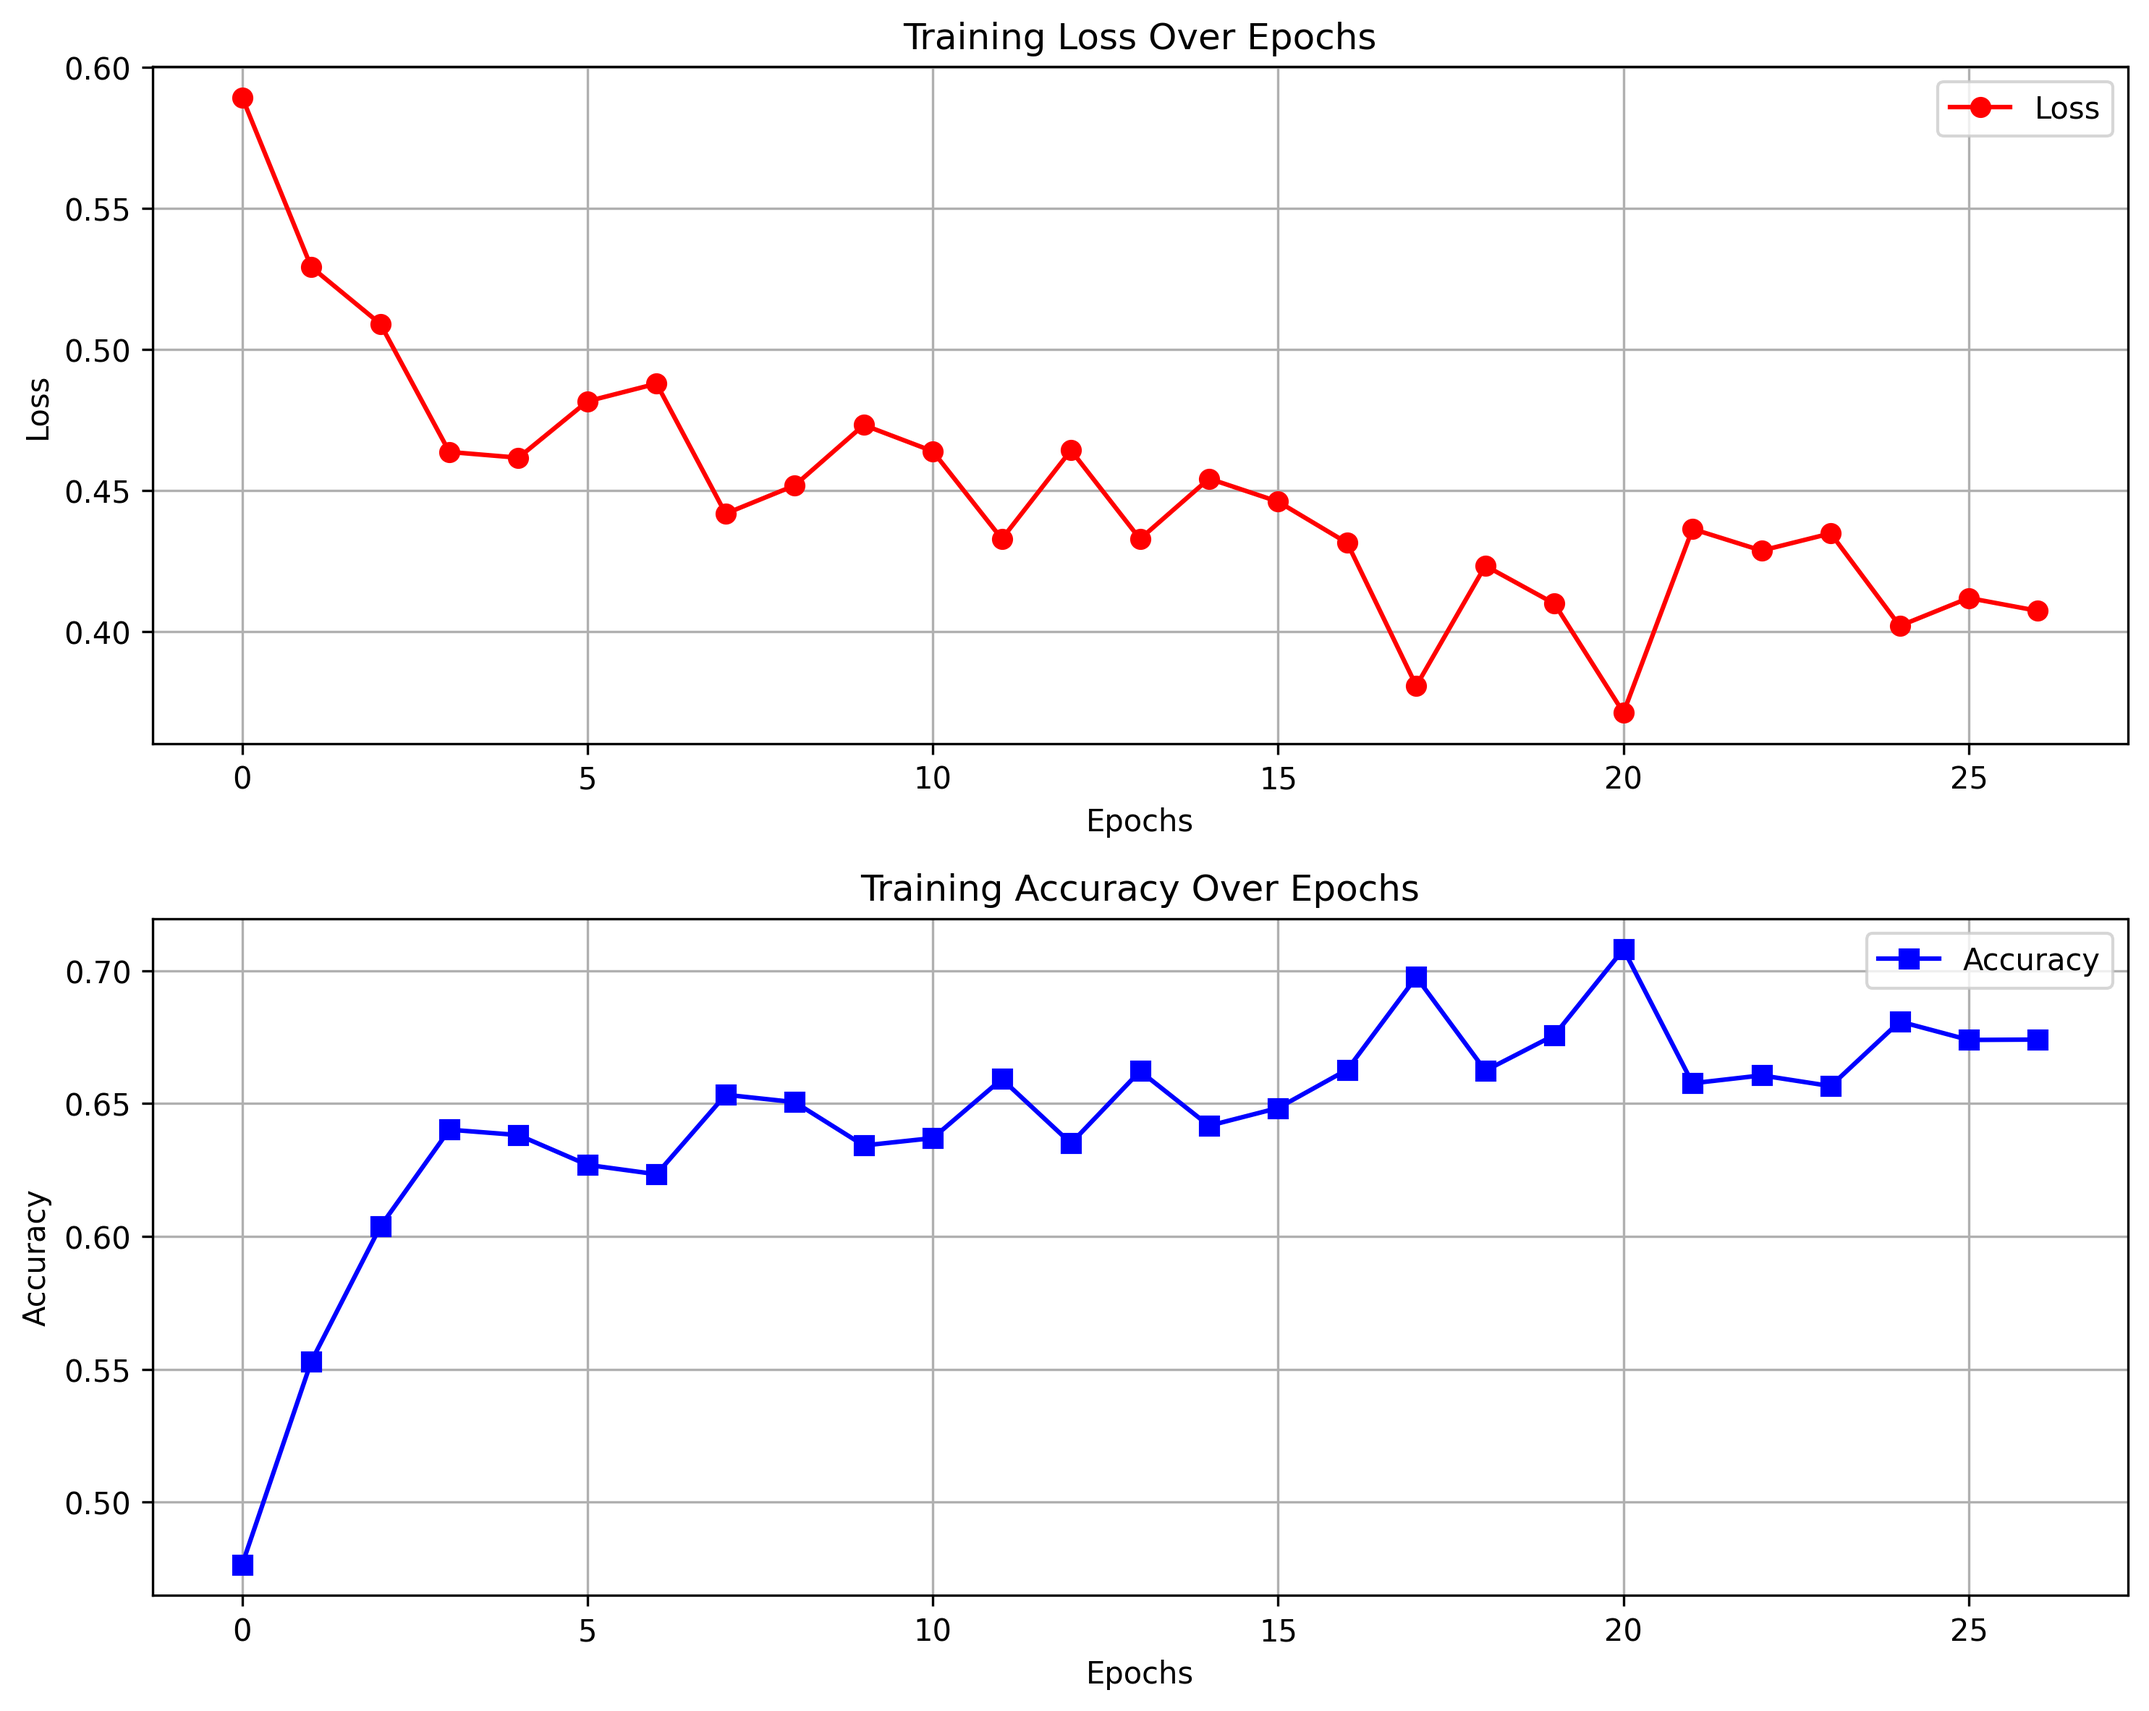
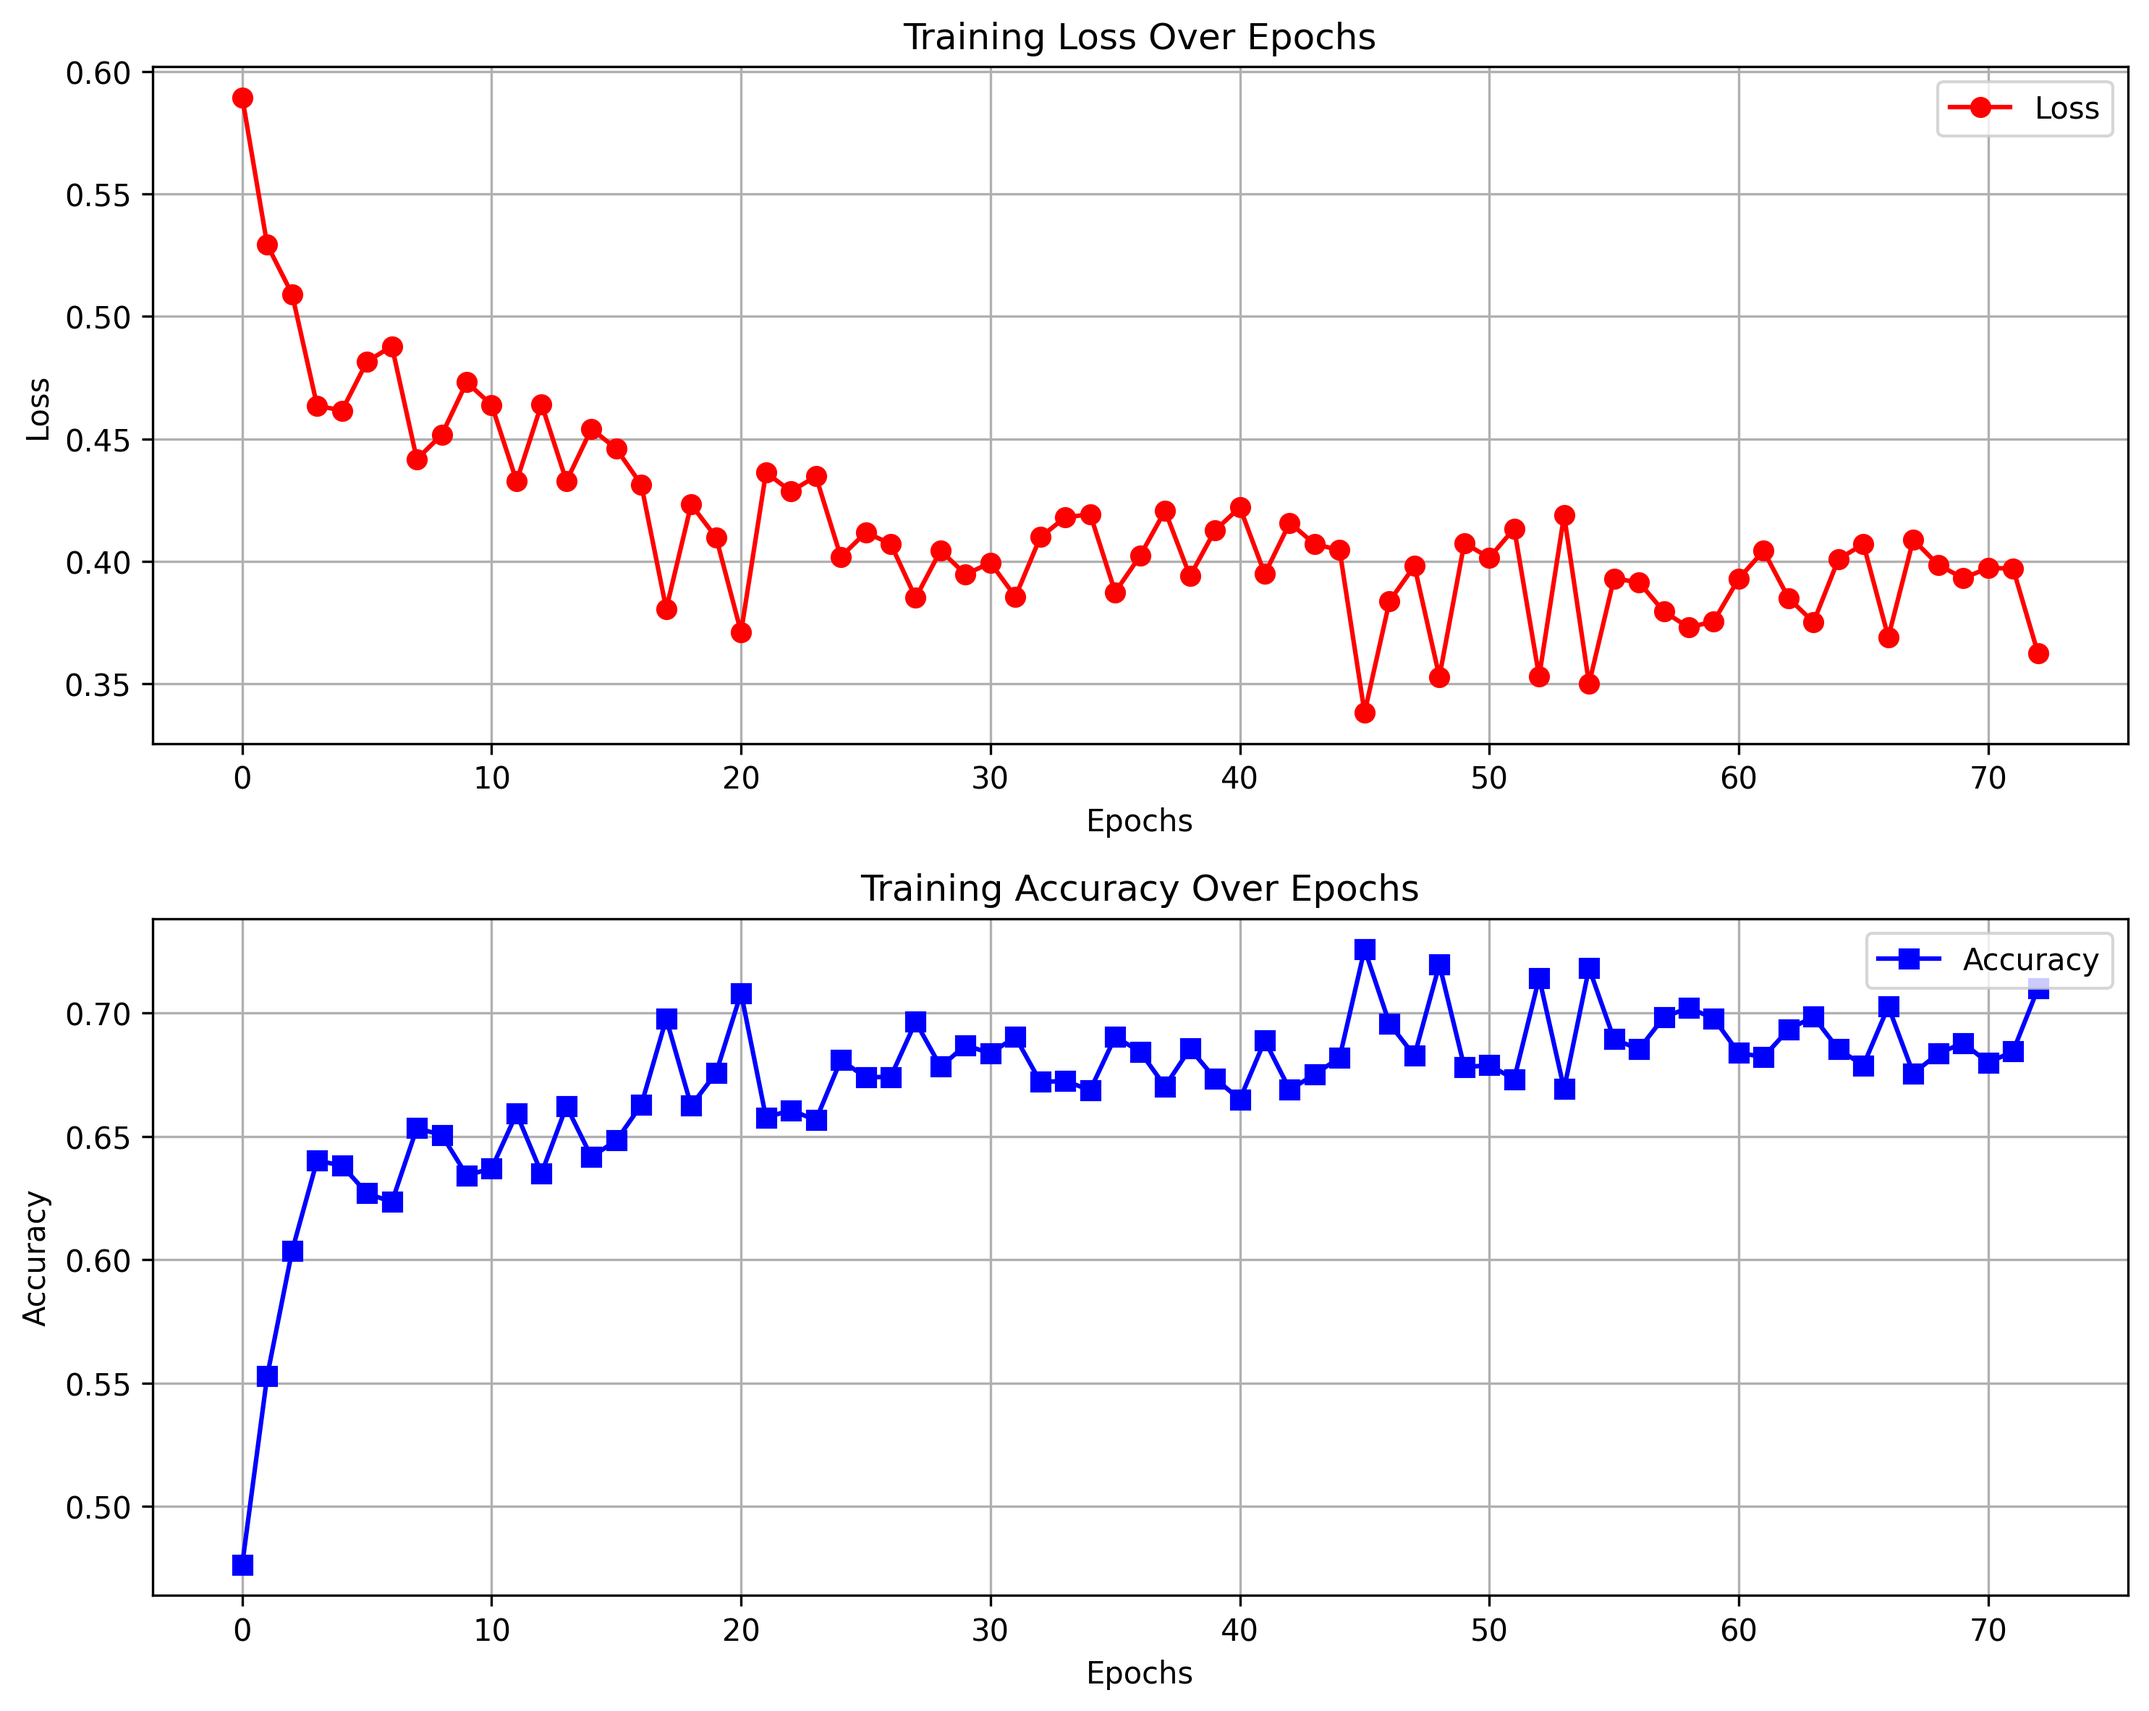
split out model eda trainer with transformer pretraining.

diff --git a/pretraining/pretrain_script.py b/pretraining/pretrain_script.py
@@ -1,23 +1,41 @@
-import tensorflow as tf
+import sys
+import os
+sys.path.append(os.path.abspath(os.path.join(os.path.dirname(__file__), '..')))
+
 from tensorflow import keras
+import numpy as np
+import matplotlib.pyplot as plt
+from tensorflow.keras import Model
+import chess
+
 import core.chess_database as chess_database
+import core.chess_environment as chess_env
+import core.model_framework as model_framework
+from tensorflow.keras.callbacks import ModelCheckpoint, CSVLogger
 
 if __name__ == "__main__":
-	model = keras.Sequential([
-		keras.layers.Conv2D(32, (3,3), activation='relu', input_shape=(8,8,17)),
-		keras.layers.Conv2D(64, (3,3), activation='relu'),
-		keras.layers.Flatten(),
-		keras.layers.Dense(128, activation='relu'),
-		keras.layers.Dense(3, activation='softmax')  # 3 categories: {1: Player Move Wins, 1: Draw, 2: Opponent Wins}
-	])
+	n_blocks = 3
+	n_heads = 8
+	n_dim = 128
+	ff_dim = 128
+	model = model_framework.create_chess_transformer(n_blocks, n_heads, n_dim, ff_dim, dropout_rate=0.1, lr=5e-4)
+	model_name = f"transformer_{n_blocks}x{n_heads}-n_dim={n_dim}-ff_dim-{ff_dim}"
 
-	model.compile(
-		optimizer=keras.optimizers.Adam(),
-		loss=keras.losses.SparseCategoricalCrossentropy(),
-		metrics=['accuracy']
-	)
+	zst_file = "data/LumbrasGigaBase 2024.pgn.zst"
+	dataset = chess_database.get_tf_dataset(zst_file, batch_size=64).repeat()
+	print(dataset.take(1))
 
-	zst_file = "data/lichess_db_standard_rated_2025-02.pgn.zst"
-	dataset = chess_database.get_tf_dataset(zst_file, batch_size=64)
+	os.makedirs("models", exist_ok=True)
+	os.makedirs("figures", exist_ok=True)  # Ensure figures directory exists
 
-	model.fit(dataset, epochs=10, steps_per_epoch=1000)
+	model.summary()
+
+	checkpoint_callback = ModelCheckpoint(f"models/{model_name}" + "_{epoch:03d}.h5", save_freq="epoch", save_weights_only=False)
+	csv_logger = CSVLogger("logs/training_log.csv", append=True)
+	plot_callback = model_framework.TrainingPlotCallback(save_interval=1, plot_path=f"figures/training/{model_name}_training.png")
+
+	# Train model and capture history
+	history = model.fit(dataset, epochs=1, steps_per_epoch=1000, callbacks=[checkpoint_callback, csv_logger, plot_callback], verbose=1)
+
+	# Save model
+	model.save(f"models/{model_name}.h5")

diff --git a/core/model_framework.py b/core/model_framework.py
@@ -123,3 +123,50 @@ def exploratory_model(FILTERS=64, BLOCKS=4, SE_CHANNELS=16, lr=3e-3, dropout=0.3
 	)
 
 	return model
+
+
+# Attention is all you need
+def transformer_block(x, embed_dim, num_heads, ff_dim, dropout_rate):
+	"""Defines a single Transformer block."""
+	attn_output = layers.MultiHeadAttention(num_heads=num_heads, key_dim=embed_dim)(x, x)
+	attn_output = layers.Dropout(dropout_rate)(attn_output)
+	x = layers.LayerNormalization(epsilon=1e-6)(x + attn_output)  # Skip connection & LayerNorm
+
+	ffn_output = layers.Dense(ff_dim, activation="relu")(x)
+	ffn_output = layers.Dense(embed_dim)(ffn_output)
+	ffn_output = layers.Dropout(dropout_rate)(ffn_output)
+
+	return layers.LayerNormalization(epsilon=1e-6)(x + ffn_output)  # Skip connection & LayerNorm
+
+def create_chess_transformer(n_blocks, n_heads, n_dim, ff_dim, dropout_rate=0.1, lr=5e-4):
+	"""Builds the Transformer model for chess position evaluation."""
+	inputs = layers.Input(shape=(8, 8, 35))  # 64 squares, each with a 35-dim vector
+	x = layers.Reshape((64, 35))(inputs)
+	
+	# Trainable Positional Embedding for each square (64 positions)
+	square_indices = tf.range(64)  # [0, 1, ..., 63]
+	pos_embedding = layers.Embedding(input_dim=64, output_dim=16)(square_indices)  # 16-dim trainable positional embedding
+	
+	# Expand dimensions to match batch size dynamically
+	pos_embedding = tf.expand_dims(pos_embedding, axis=0)  # Shape: (1, 64, 16)
+	pos_embedding = tf.tile(pos_embedding, [tf.shape(x)[0], 1, 1])  # Shape: (batch_size, 64, 16)
+	
+	# Concatenate the piece representation (35-dim) with positional encoding (16-dim)
+	x = layers.Concatenate(axis=-1)([x, pos_embedding])  # New shape: (64, 51)
+	
+	# Pass through Transformer Blocks
+	x = layers.Dense(n_dim, activation="relu")(x)  # Token embedding
+
+	for _ in range(n_blocks):
+		x = transformer_block(x, n_dim, n_heads, ff_dim, dropout_rate)
+
+	x = layers.GlobalAveragePooling1D()(x)  # Aggregate token outputs
+	outputs = layers.Dense(3, activation="softmax")(x)  # Win, Draw, Loss classification
+
+	model = Model(inputs, outputs)
+	model.compile(
+		optimizer=keras.optimizers.Adam(learning_rate=lr),
+		loss=keras.losses.SparseCategoricalCrossentropy(),
+		metrics=['accuracy']
+	)
+	return model

diff --git a/core/chess_database.py b/core/chess_database.py
@@ -96,7 +96,7 @@ def get_tf_dataset(zst_file, batch_size=32, num_parallel_calls=tf.data.experimen
 
 	# Parallel loading and prefetching for speedup
 	dataset = dataset.shuffle(buffer_size) \
-					 .map(lambda x, y, w: (tf.py_function(lambda a: a, [x], tf.float32), y, w),
+					 .map(lambda x, y, w: (tf.cast(x, tf.float32), y, w),
 						  num_parallel_calls=num_parallel_calls) \
 					 .prefetch(tf.data.experimental.AUTOTUNE)
 
